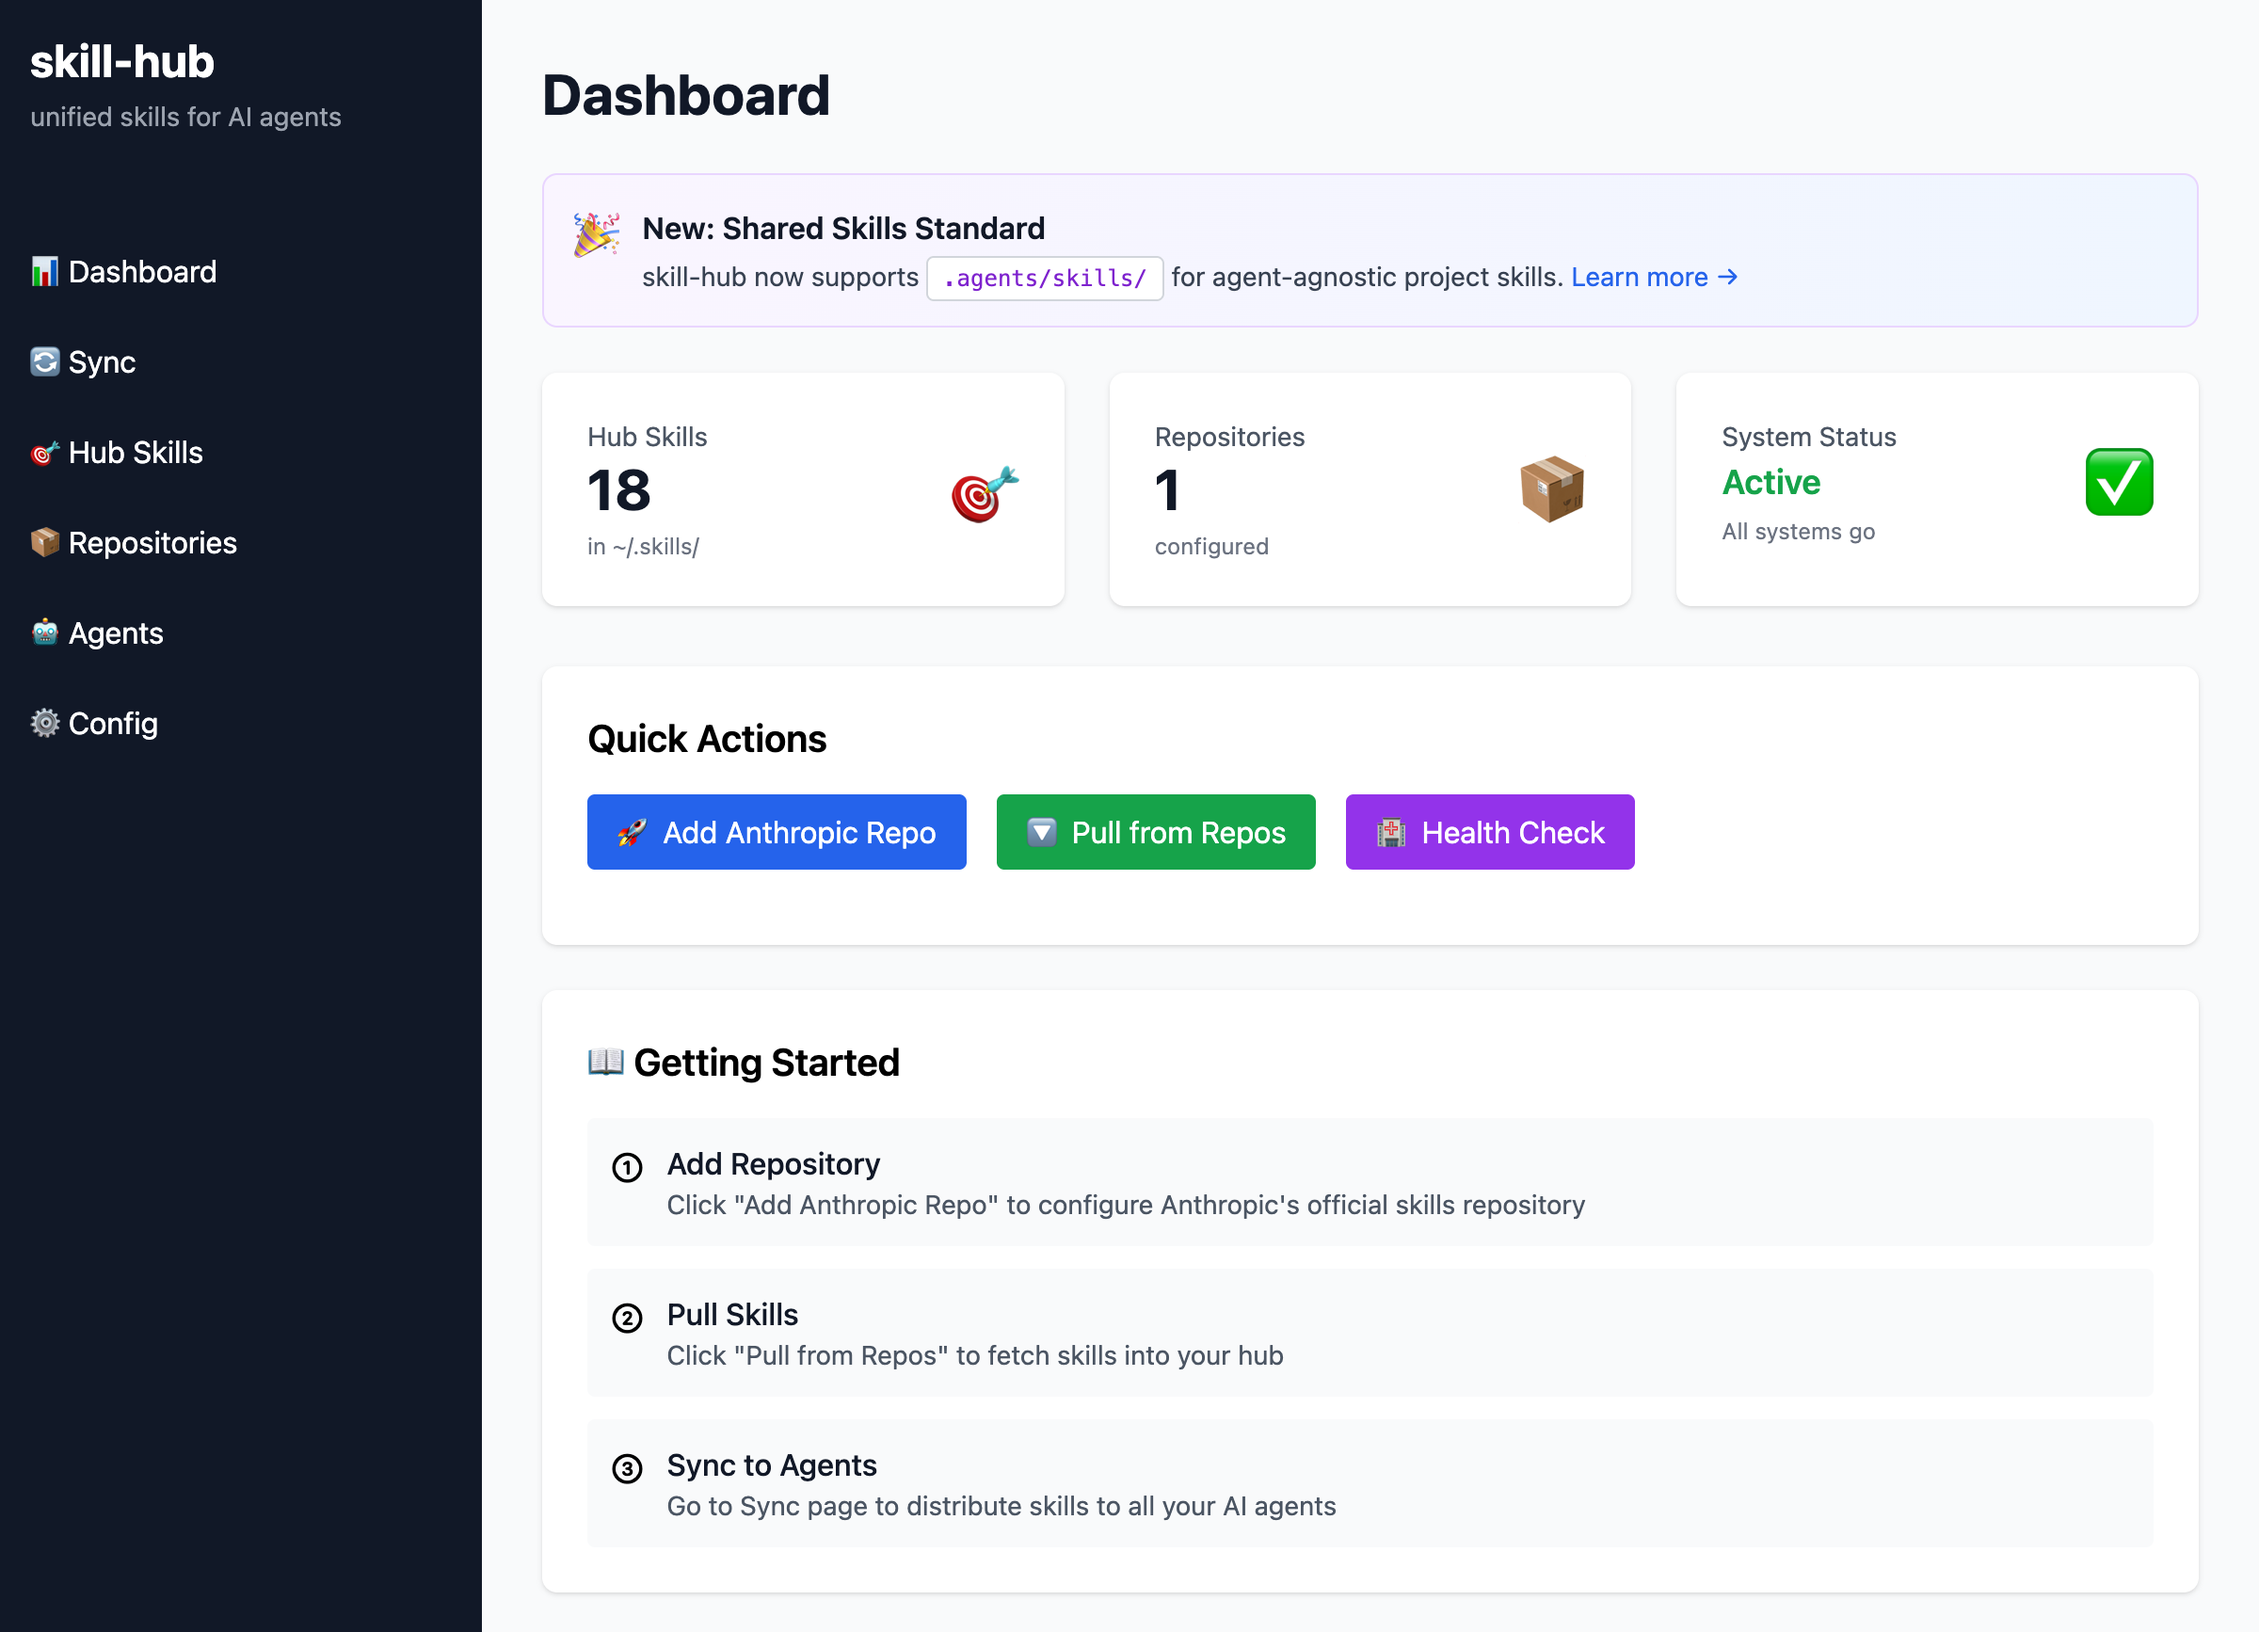
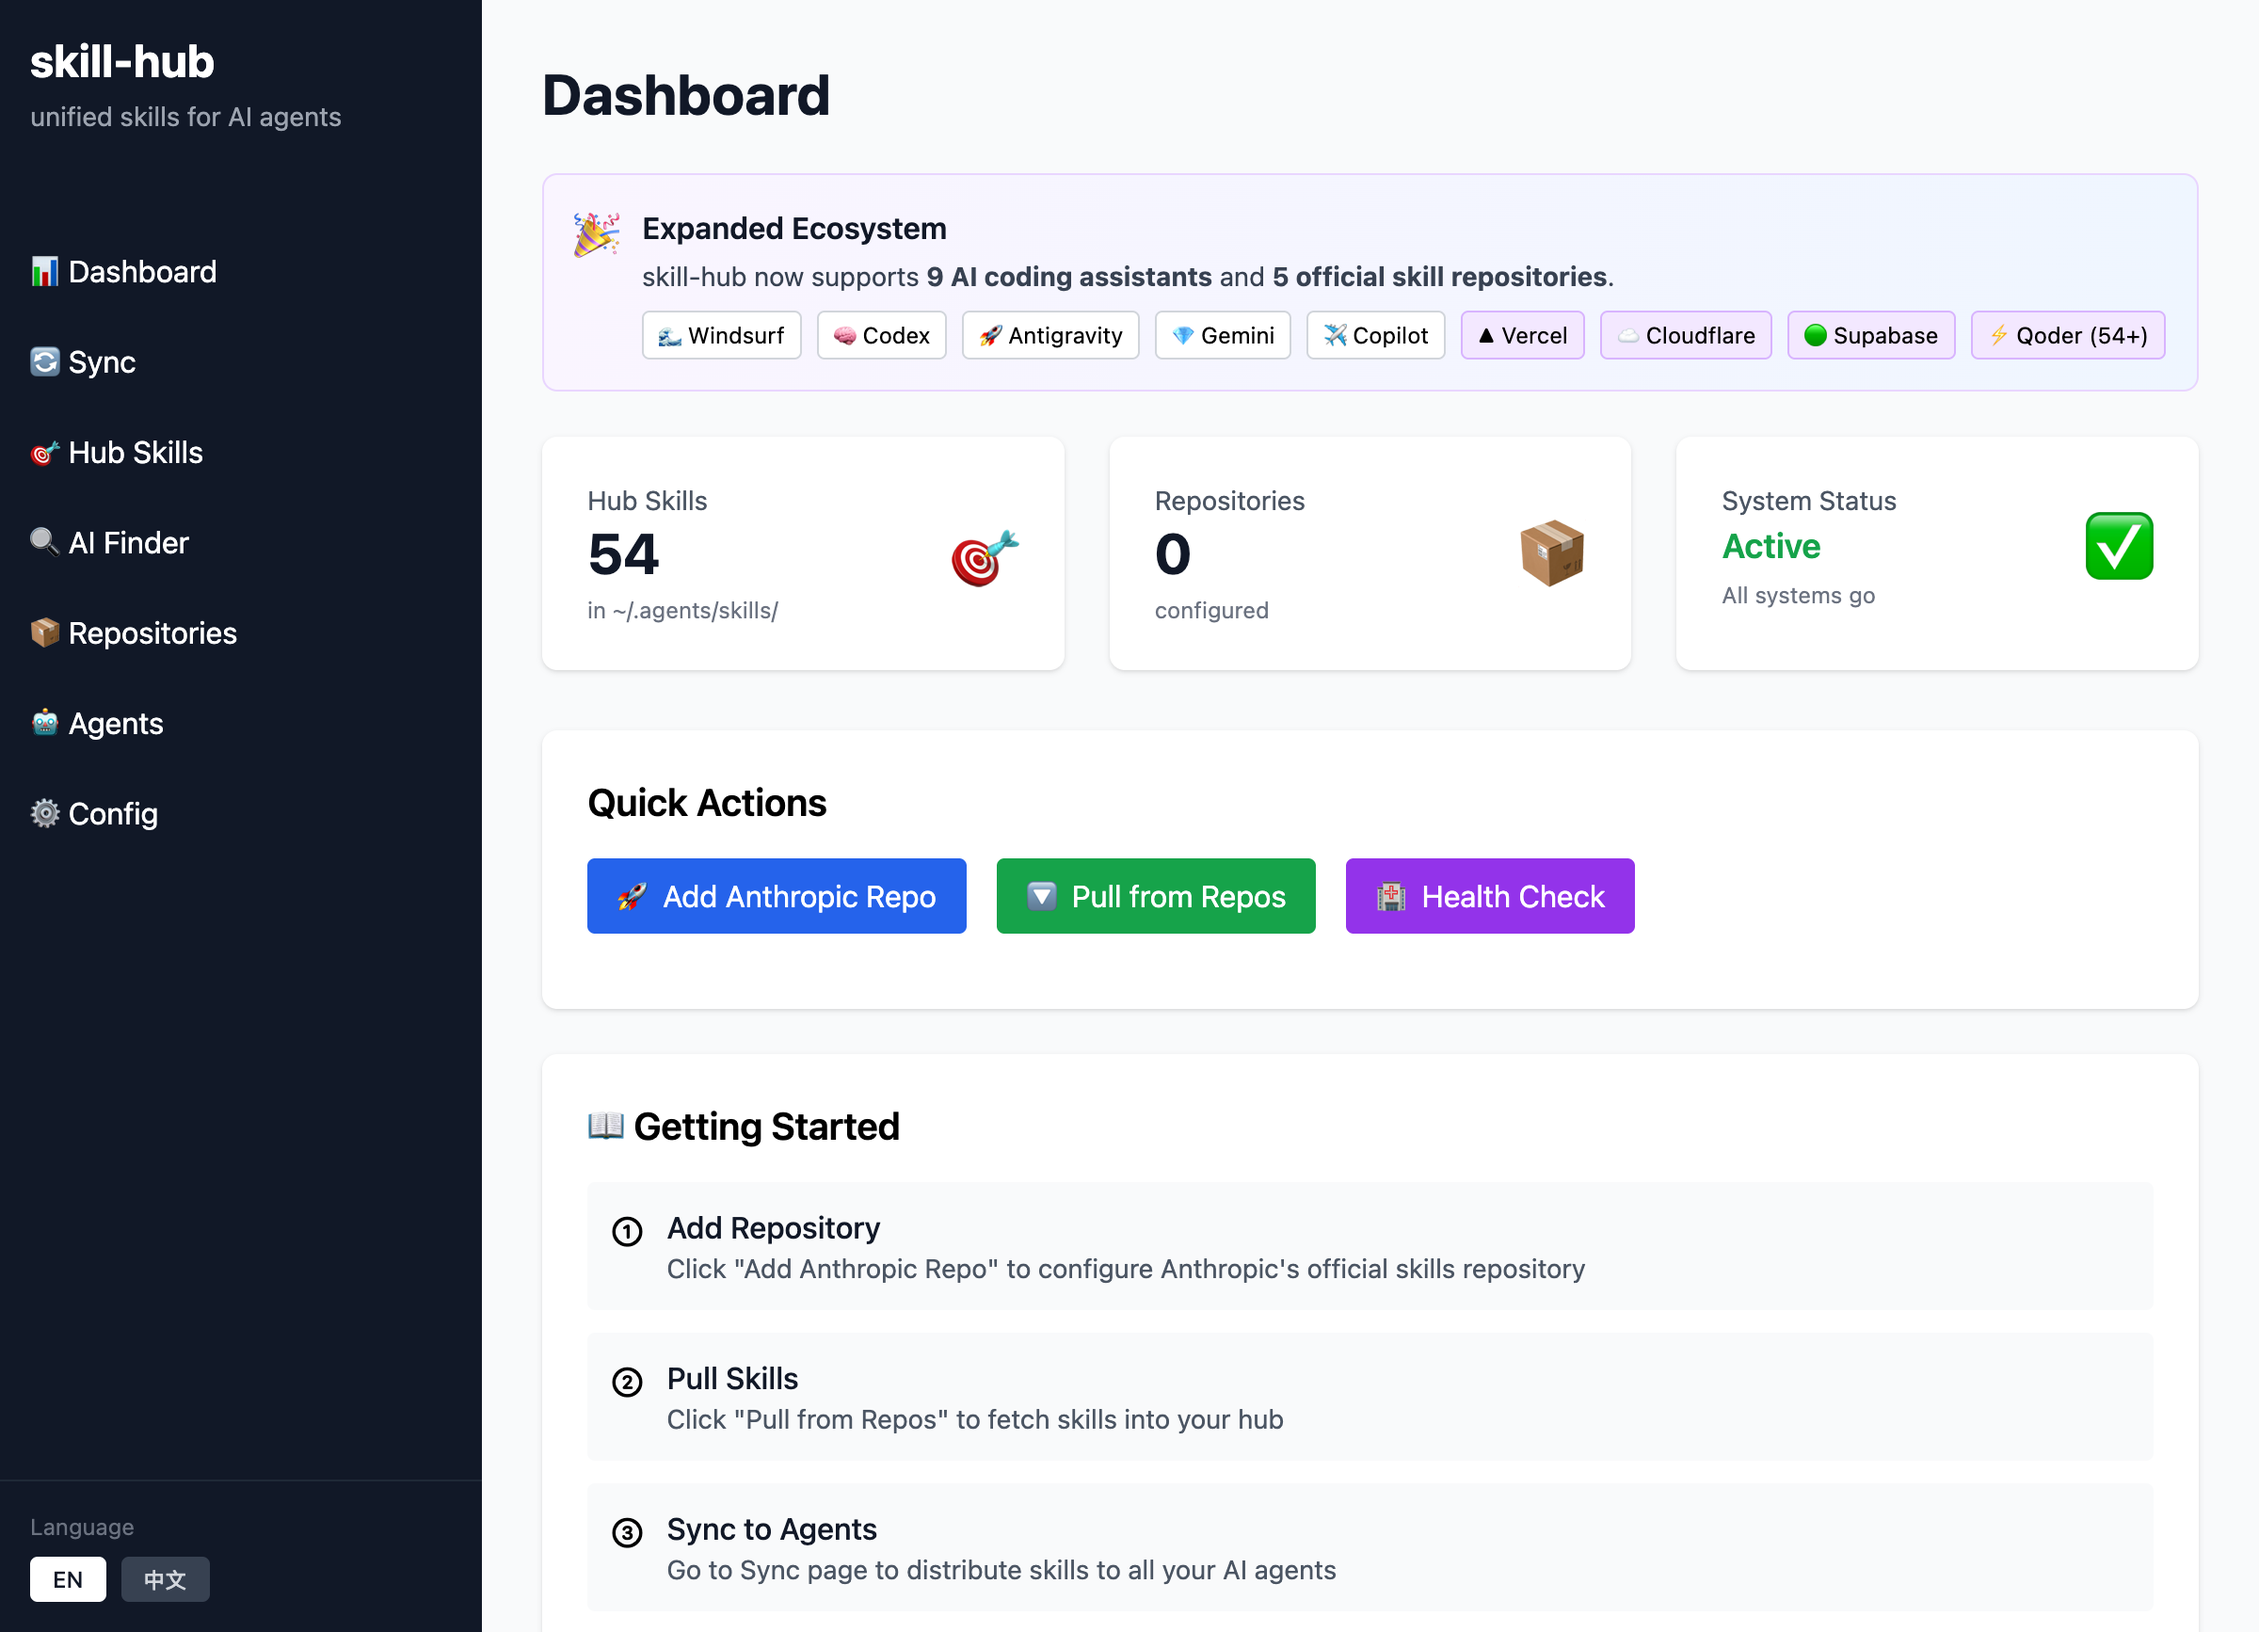
docs(images): add comprehensive web interface screenshots and update documentation

diff --git a/README.md b/README.md
@@ -163,19 +163,49 @@ skill-hub web --no-browser
 
 ![Dashboard](docs/images/dashboard.png)
 
-*Dashboard showing skill count, repositories, quick actions, and getting started guide with the new `.agents/skills/` standard.*
+*Dashboard showing 54 hub skills, repository count, quick actions, and getting started guide with the `.agents/skills/` standard.*
 
-**Skill Preview - Markdown Rendering**
+**AI Skill Finder - Semantic Search Interface**
+
+![AI Skill Finder](docs/images/ai-finder.png)
+
+*AI-powered skill finder with natural language search. Enter queries like "git workflow" to find relevant skills with match scores and reasoning.*
+
+**Skill Preview - Markdown Rendering with Bilingual Translation**
 
 ![Skill Preview](docs/images/skill-preview.png)
 
-*Skill preview page showing markdown-rendered skill content with metadata, license, and compatibility information. Click any skill name in Hub Skills or AI Skill Finder to preview.*
+*Skill preview page with markdown rendering and on-demand AI translation to Chinese. Side-by-side bilingual view for easy comparison.*
 
-<!-- Additional screenshots coming soon:
-- Agents page with health check and shared skills detection
-- Skills hub central repository view
-- Sync operations with three modes
--->
+**AI/LLM Configuration - Unified Provider Settings**
+
+![AI/LLM Configuration](docs/images/config-ai.png)
+
+*Configure local Ollama or cloud OpenAI-compatible APIs. Toggle between providers, test connections, and manage API settings.*
+
+**Agents Health Check - Adapter Status**
+
+![Agents Health Check](docs/images/agents-health.png)
+
+*Health check results for all 9 agent adapters showing status, global paths, and `.agents/skills/` shared directory detection.*
+
+**Skills Hub - Central Repository View**
+
+![Skills Hub](docs/images/skills-hub.png)
+
+*Central hub displaying all 54 available skills with descriptions and compatibility. Click any skill name to preview.*
+
+**Sync Operations - Three Modes**
+
+![Sync Operations](docs/images/sync.png)
+
+*Synchronize skills between hub and agents with three modes: bi-directional, pull-only, or push-only sync.*
+
+**Repositories Management - Remote Sources**
+
+![Repositories Management](docs/images/repositories.png)
+
+*Manage remote skill repositories. Add official sources (Anthropic, Vercel, Cloudflare, Supabase) or custom repos.*
 
 The web interface provides:
 - 📊 Dashboard with quick actions and metrics

diff --git a/README.zh-CN.md b/README.zh-CN.md
@@ -137,19 +137,49 @@ skill-hub web --no-browser
 
 ![仪表板](docs/images/dashboard.png)
 
-*仪表板显示技能数量、仓库、快速操作以及包含新 `.agents/skills/` 标准的入门指南。*
+*仪表板显示 54 个中央仓库技能、仓库数量、快速操作以及包含 `.agents/skills/` 标准的入门指南。*
 
-**技能预览 - Markdown 渲染**
+**AI 技能查找器 - 语义搜索界面**
+
+![AI 技能查找器](docs/images/ai-finder.png)
+
+*AI 驱动的技能查找器，支持自然语言搜索。输入类似"git workflow"的查询来查找相关技能，带有匹配分数和推理说明。*
+
+**技能预览 - Markdown 渲染与双语翻译**
 
 ![技能预览](docs/images/skill-preview.png)
 
-*技能预览页面显示 Markdown 渲染的技能内容，包含元数据、许可证和兼容性信息。在中央仓库技能或 AI 技能查找器中点击任意技能名称即可预览。*
+*技能预览页面，支持 Markdown 渲染和按需 AI 翻译为中文。英中双语对照视图，方便比较。*
 
-<!-- 更多截图即将推出：
-- 助手页面，包含健康检查和共享技能检测
-- 技能中心的中央仓库视图
-- 三种模式的同步操作
--->
+**AI/LLM 配置 - 统一提供商设置**
+
+![AI/LLM 配置](docs/images/config-ai.png)
+
+*配置本地 Ollama 或云端 OpenAI 兼容 API。在提供商之间切换、测试连接并管理 API 设置。*
+
+**助手健康检查 - 适配器状态**
+
+![助手健康检查](docs/images/agents-health.png)
+
+*所有 9 个助手适配器的健康检查结果，显示状态、全局路径和 `.agents/skills/` 共享目录检测。*
+
+**技能中心 - 中央仓库视图**
+
+![技能中心](docs/images/skills-hub.png)
+
+*中央仓库显示所有 54 个可用技能及其描述和兼容性。点击任意技能名称即可预览。*
+
+**同步操作 - 三种模式**
+
+![同步操作](docs/images/sync.png)
+
+*在中央仓库和助手之间同步技能，提供三种模式：双向、仅拉取或仅推送同步。*
+
+**仓库管理 - 远程来源**
+
+![仓库管理](docs/images/repositories.png)
+
+*管理远程技能仓库。添加官方来源（Anthropic、Vercel、Cloudflare、Supabase）或自定义仓库。*
 
 Web 界面提供：
 - 📊 仪表板：快速操作、健康检查和指标，包含 `.agents/skills/` 标准信息
